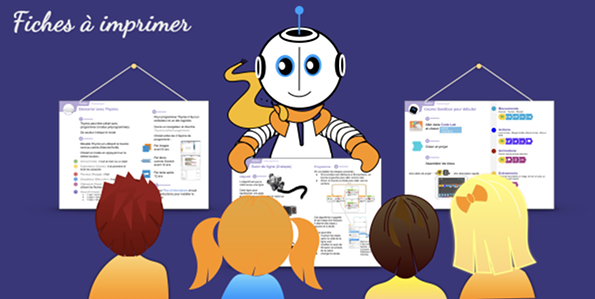
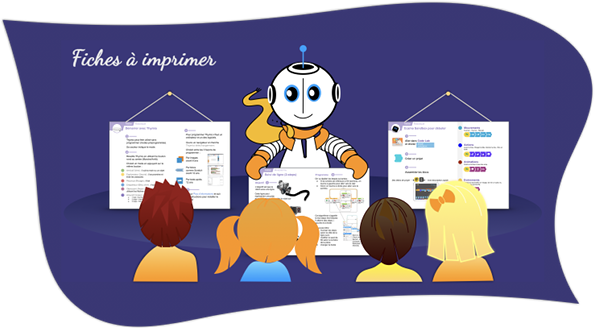
changement image landpage

diff --git a/index.html b/index.html
@@ -15,7 +15,7 @@ page_assets: /assets/images/landpage/
     </div>
     -->
     <div style="margin: 0 10px 10px 0;float:left;">
-      <img style="max-height:299px;max-width:595px;height:100%x;width:100%;object-fit: contain;"
+      <img style="max-height:329px;max-width:595px;height:100%x;width:100%;object-fit: contain;"
            src="{{site.baseurl}}{{page.page_assets}}{{item.image}}"/>
     </div>
   </a>
